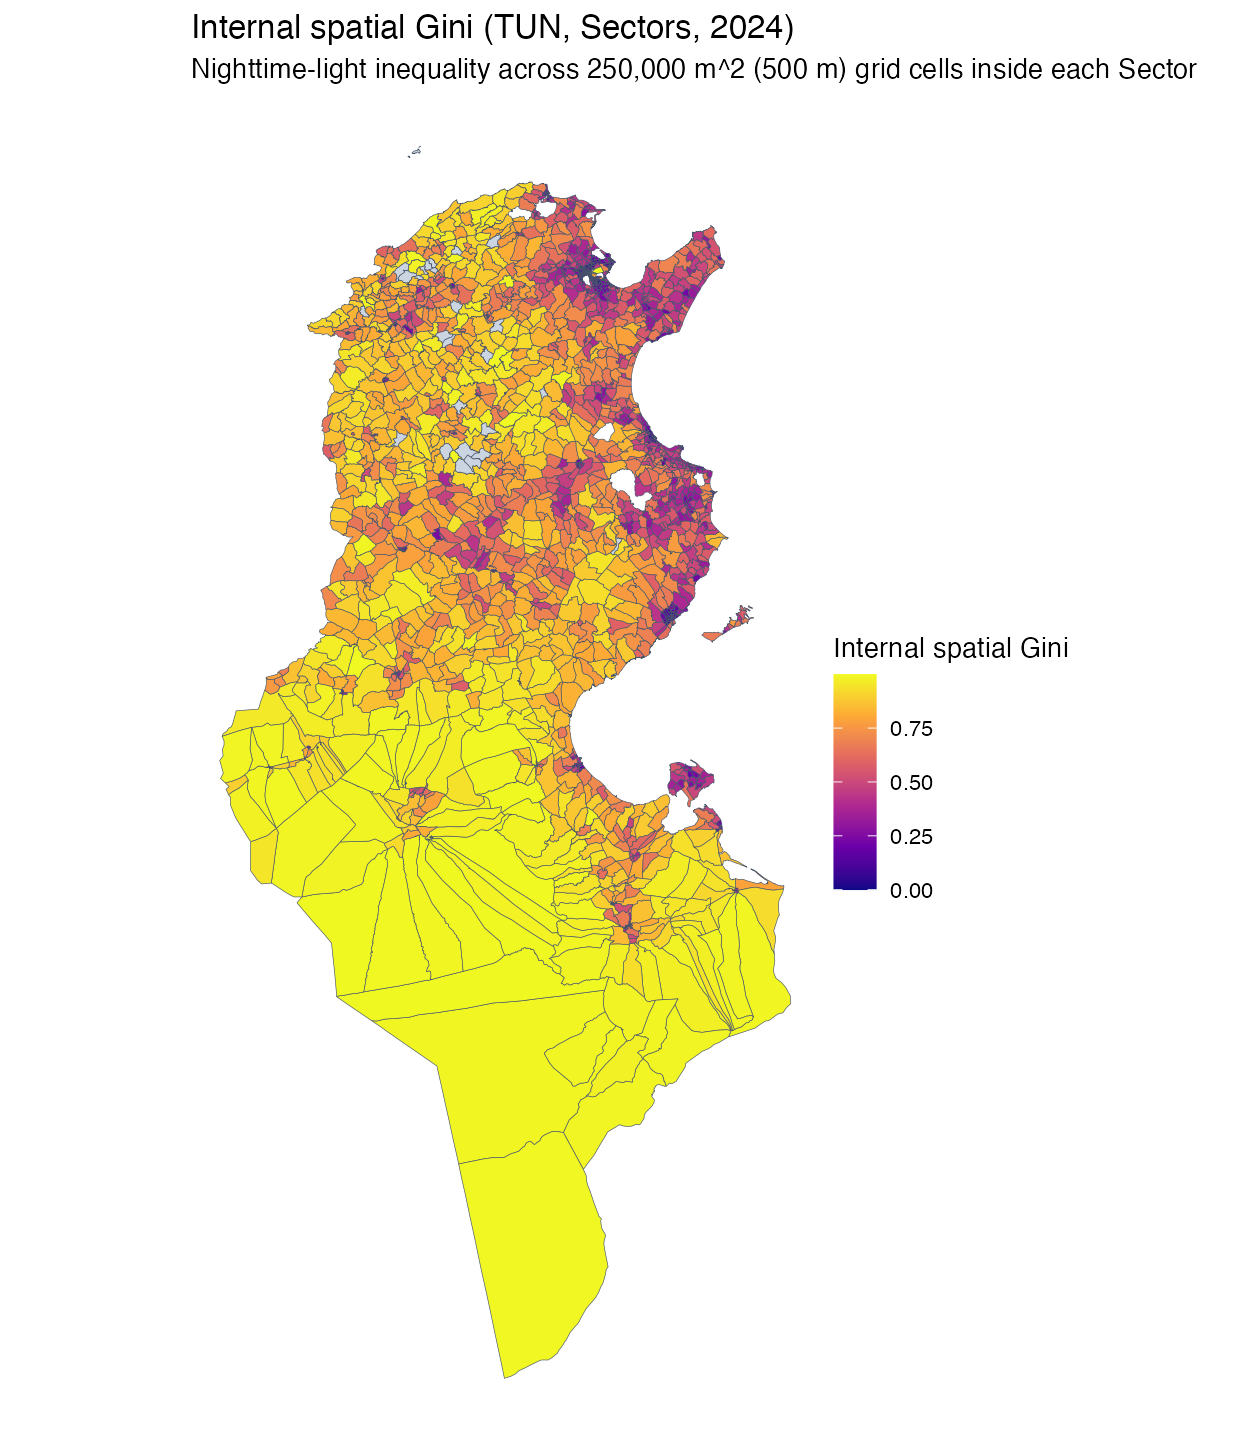
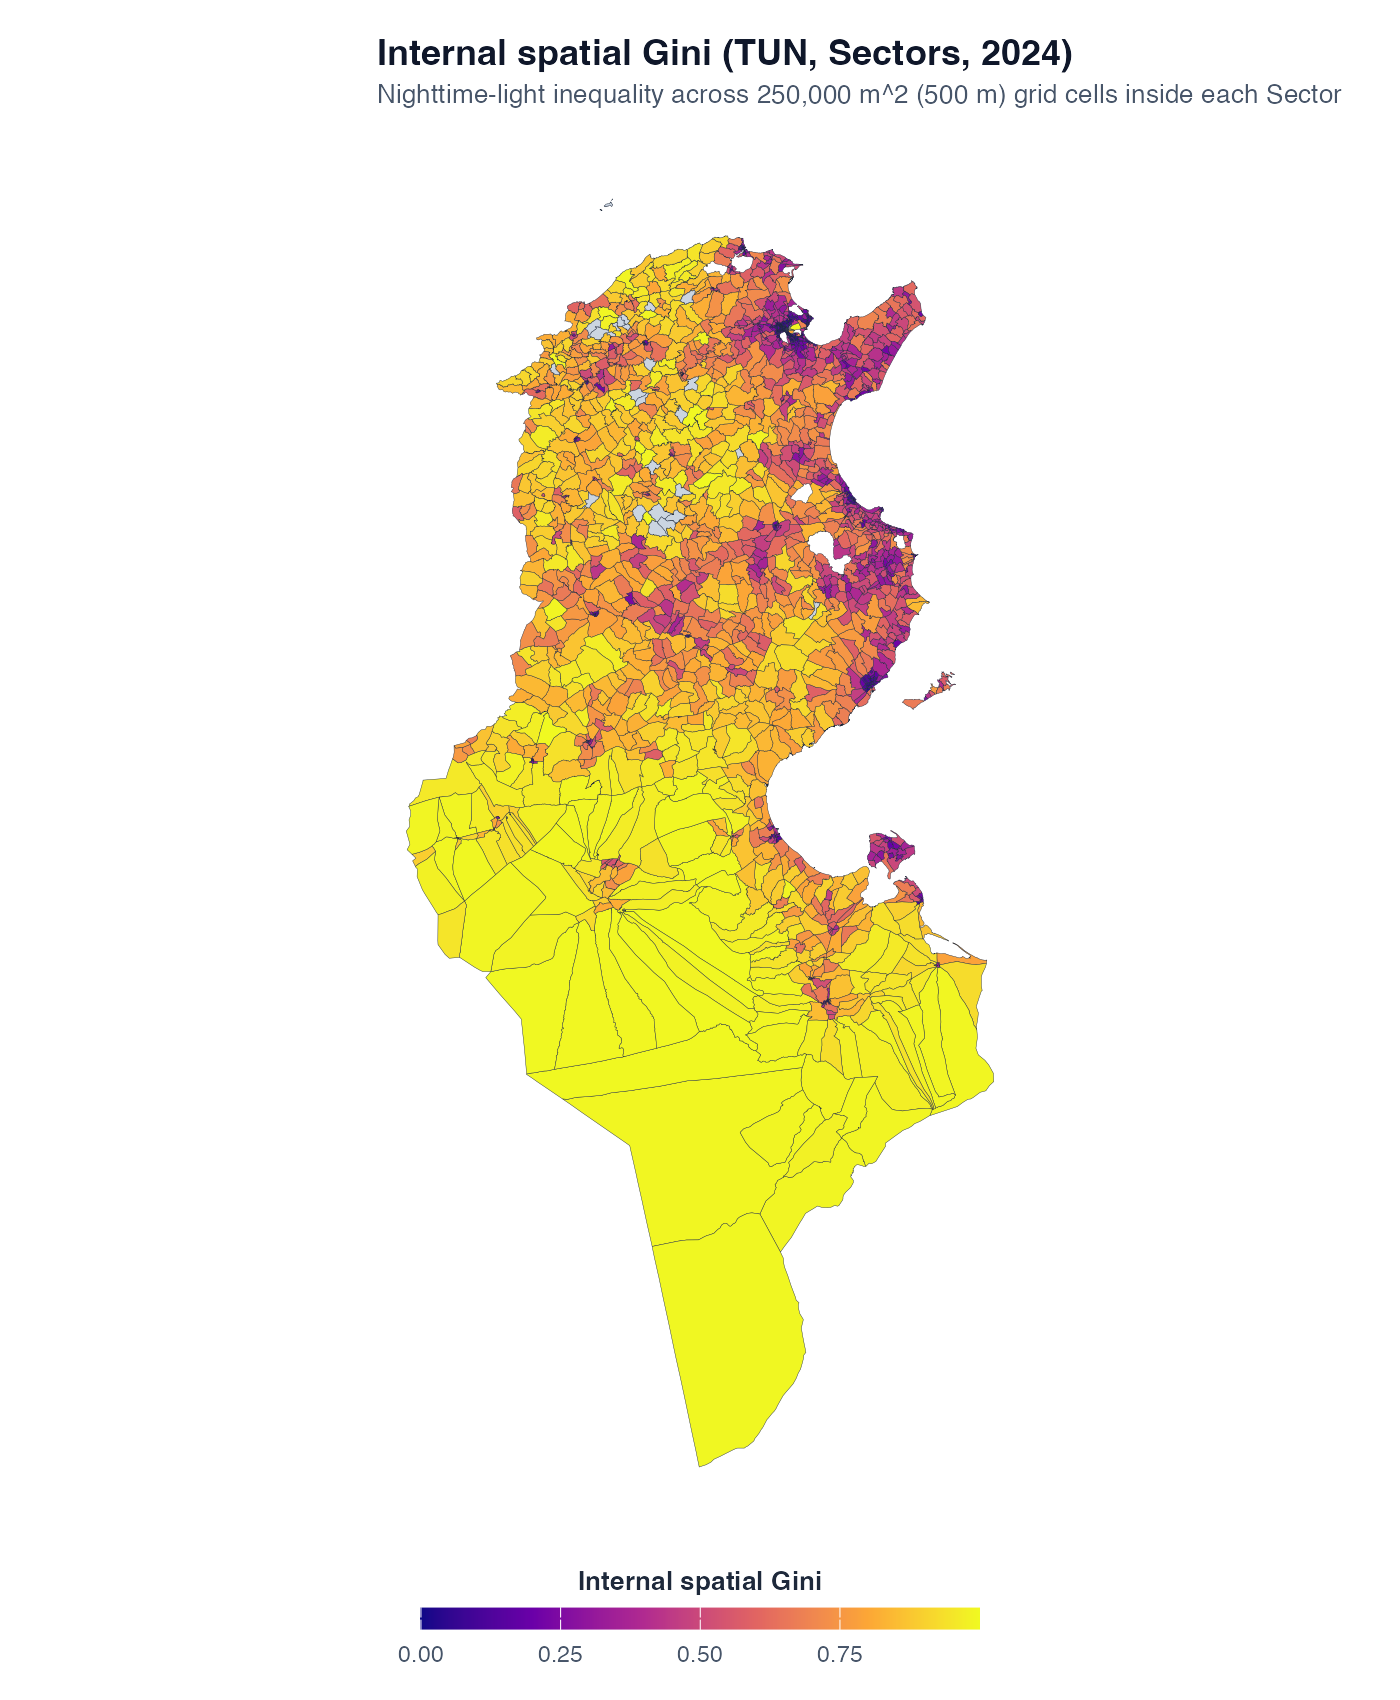
Improve cartographic styling, projections, borders, and legends on README maps

Changed region(s): [[0.1548, 0.125, 0.8357, 0.9688], [0.1548, 0.0, 0.9595, 0.0625]]

diff --git a/README.md b/README.md
@@ -128,8 +128,9 @@ ntl_gini_plot_unit_scatter(level = "adm3", iso3 = "TUN", year = 2024)
 Pass any `sf` polygon object or path to a `.shp`, `.gpkg`, or `.geojson` file:
 
 ```r
-# Global inter-regional Gini at ADM_1 in 2024
-ntl_gini_map_countries("path/to/world_countries.shp", level = "adm1", year = 2024)
+# Global inter-regional Gini at ADM_1 in 2024 (Robinson projection)
+ntl_gini_map_countries("path/to/world_countries.shp", level = "adm1", year = 2024) +
+  ggplot2::coord_sf(crs = "+proj=robin")
 ```
 
 ![Global inter-regional Gini at ADM1 in 2024](man/figures/map_global_between_adm1.png)
@@ -137,7 +138,7 @@ ntl_gini_map_countries("path/to/world_countries.shp", level = "adm1", year = 202
 ```r
 # Regional subset (Europe, cropped with coord_sf)
 ntl_gini_map_countries(europe_sf, level = "adm1", year = 2024) +
-  ggplot2::coord_sf(xlim = c(-12, 42), ylim = c(34, 71)) +
+  ggplot2::coord_sf(xlim = c(-24, 45), ylim = c(34, 71), expand = FALSE) +
   ggplot2::labs(title = "Europe: Inter-Regional Gini (ADM1, 2024)")
 ```
 
